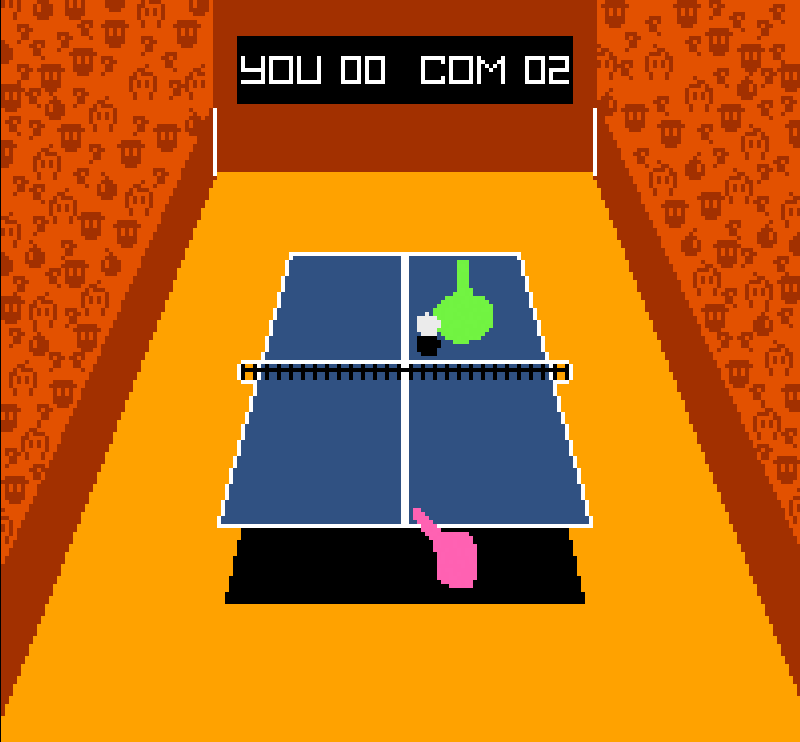
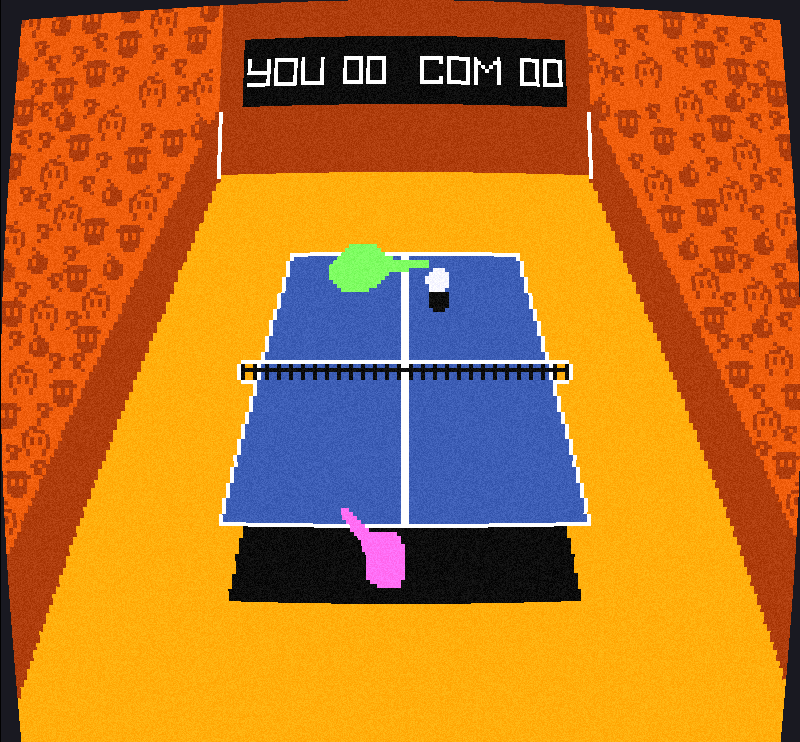
Added CRT filter

diff --git a/TableTennis.c b/TableTennis.c
@@ -66,6 +66,8 @@ struct {
     u8 illegal_bounce, end;
     u8 score, score_com;
     int wait, ball_wait;
+    u8 crt;
+    int time;
 } state;
 
 typedef struct {
@@ -78,10 +80,10 @@ typedef struct {
 // Globals
 RenderTexture2D screen;
 Texture2D background, table, table_mask, menu;
-Shader shadow_shader;
 Sound sfx_bounce, sfx_bounce_table, sfx_hit, sfx_select, sfx_click;
 Music game_music;
-int table_mask_loc;
+Shader shadow_shader, crt_shader;
+int table_mask_loc, time_loc;
 paddle player, com;
 
 int enter_blink_tick;
@@ -126,7 +128,7 @@ void ball_hit_paddle(paddle p, int dir) {
     Rectangle hit = RECPLUSXY(PLAYERHIT, p.pos);
     if ( p.frame >= PADDLEHITFRAME && p.frame <= PADDLEMAXFRAME ) { // If can hit
         if ( CheckCollisionPointRec( ball.project, hit ) ) {
-            ball.vel.x = ( ball.project.x - PLAYERHITHALFW - hit.x ) / ( hit.width*2.5 );
+            ball.vel.x = ( ball.project.x - PLAYERHITHALFW - hit.x ) / ( hit.width*1.5f );
             // printf("%f\n", ball.vel.x);
             ball.vel.y = ( ball.project.y - hit.y ) / ( hit.height * 5.0f ) + 1.0f;
             ball.vel.y *= dir;
@@ -318,18 +320,21 @@ void Init() {
     InitWindow(WINWIDTH, WINHEIGHT, "Table Tennis!");
     InitAudioDevice();
     SetTargetFPS(FPS);
+    HideCursor();
 
     // State
     state.screen         = 0;
     state.difficulty     = 1;
-    state.score          =
+    state.score          =   // Yes, I probably could use memset
     state.score_com      =
     state.illegal_bounce =
     state.end            =
     state.bounces        =
     state.bounces_com    =
     state.wait           = 
-    state.ball_wait      = 0;
+    state.ball_wait      =
+    state.crt            =
+    state.time           = 0;
 
     // Background graphics
     screen     = LoadRenderTexture(WIDTH, HEIGHT);
@@ -338,8 +343,11 @@ void Init() {
     table_mask = LoadTexture("graphics/table_mask.png");
     menu       = LoadTexture("graphics/menu.png");
 
-    shadow_shader  = LoadShader(0, "shadow.glsl");
+    shadow_shader  = LoadShader(0, "shaders/shadow.glsl");
     table_mask_loc = GetShaderLocation(shadow_shader, "mask");
+
+    crt_shader  = LoadShader(0, "shaders/crt.glsl");
+    time_loc    = GetShaderLocation(crt_shader, "time");
 
     // Sounds
     sfx_bounce       = LoadSound("audio/bounce.wav");
@@ -365,7 +373,9 @@ void Unload() {
     UnloadTexture(table);
     UnloadTexture(table_mask);
     UnloadTexture(menu);
+
     UnloadShader(shadow_shader);
+    UnloadShader(crt_shader);
 
     UnloadSound(sfx_bounce);
     UnloadSound(sfx_bounce_table);
@@ -382,6 +392,10 @@ void Unload() {
 }
 
 void Update() {
+    if ( IsKeyPressed(KEY_C) ) state.crt = !state.crt;
+    if ( state.time < 3600 ) state.time++;
+    else                     state.time = 0;
+
     if ( state.wait ) state.wait--;
     else {
         switch ( state.screen ) {
@@ -480,7 +494,6 @@ void Draw() {
             break;
         }
     }
-
 }
 
 
@@ -497,12 +510,14 @@ int main() {
         EndTextureMode();
 
         BeginDrawing();
+            if ( state.crt ) { BeginShaderMode(crt_shader); SetShaderValue(crt_shader, time_loc, &state.time, SHADER_UNIFORM_INT); }
             DrawTexturePro(
                 screen.texture,
                 (Rectangle){ 0.0f, 0.0f, WIDTH, -HEIGHT },
                 (Rectangle){ 0.0f, 0.0f, WINWIDTH, WINHEIGHT },
                 (Vector2){ 0.0f, 0.0f }, 0.0f, WHITE
             );
+            if ( state.crt ) EndShaderMode();
         EndDrawing();
     }
 
